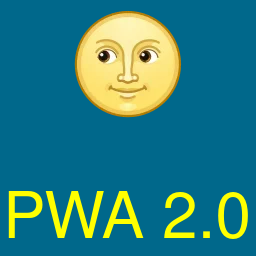
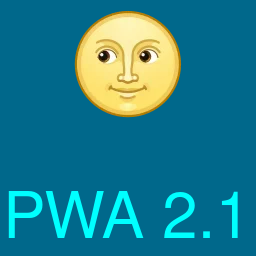
ver. 2.1

Changed region(s): [[0.0312, 0.7188, 0.5625, 0.9375], [0.625, 0.75, 0.9688, 0.9375]]

diff --git a/app.html b/app.html
@@ -6,6 +6,6 @@
     <link rel="manifest" href="manifest.json" />
   </head>
   <body style="background: deepskyblue;">
-    <p>App page ver. 2.0</p>
+    <p>App page ver. 2.1</p>
   </body>
 </html>
